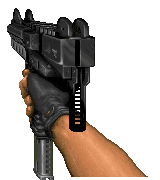
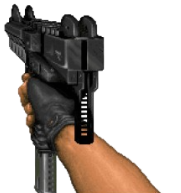
Figured out up to making the gun animate properly.

Changed region(s): [[0.0, 0.0, 0.9375, 1.0]]

diff --git a/Interactive-Scene/sketch.js b/Interactive-Scene/sketch.js
@@ -3,14 +3,14 @@
 // September 20, 2022
 //
 // Extra for Experts:
-// - describe what you did to take this project "above and beyond"
+// Added in some sound, 
 
 
 let state = "start";
 let mainBg, startBg, targetDummy, uzi1, uzi2, uzi3;
 let bX, bY, bW, bH;
 let tLength, uLength;
-let frameLength;
+let s;
 
 function setup() {
   createCanvas(windowWidth, windowHeight);
@@ -19,7 +19,6 @@ function setup() {
   bW = 300;
   bH = 150;
   tLength = 300, uLength = 350;
-  frameLength = 100;
 }
 
 function draw() {
@@ -33,6 +32,8 @@ function draw() {
     drawGunMain();
   }
   if (state === "shoot") {
+    image(mainBg, 0, 0, width, height);
+    drawDummies();
     shootGun();
   }
 }
@@ -41,8 +42,8 @@ function mousePressed() {
   if (state === "start" && mouseInBox(bX, bX + 300, bY, bY + 150)) {
     state = "main";
   }
-  else if (state === "main") {
-    state === "shoot";
+  else if (state === "main"){
+    state = "shoot";
   }
 }
 
@@ -74,13 +75,24 @@ function drawGunMain(){
 }
 
 function drawDummies(){
-  image(targetDummy, width / 2, height - tLength, tLength, tLength);
+  image(targetDummy, width / 2, height - tLength - 100, tLength, tLength);
   image(targetDummy, width / 2 - tLength, height - tLength, tLength, tLength);
-  image(targetDummy, width / 2 - tLength * 2, height - tLength, tLength, tLength);
+  image(targetDummy, width / 2 - tLength * 2, height - tLength - 50, tLength, tLength);
   image(targetDummy, width / 2 + tLength, height - tLength, tLength, tLength);
 }
 
-//just a test
 function shootGun(){
+  animateGun();
   state = "main";
+}
+
+function animateGun(){
+  image(uzi2, mouseX, height - uLength + 50, uLength, uLength);
+  image(uzi3, mouseX, height - uLength + 50, uLength, uLength);
+  
+}
+
+function resetBg(){
+  image(mainBg, 0, 0, width, height);
+  drawDummies;
 }
